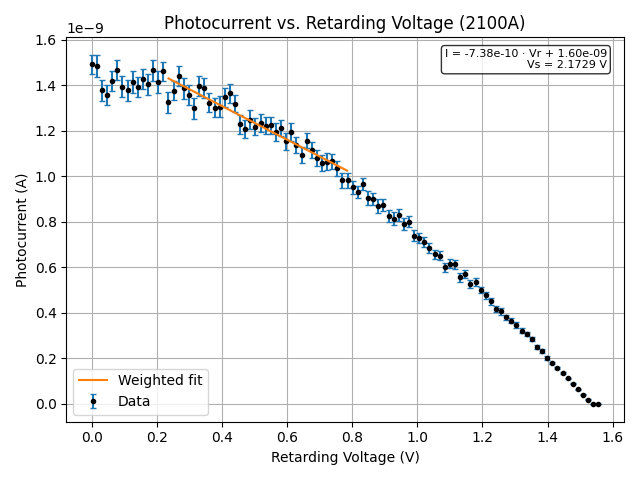
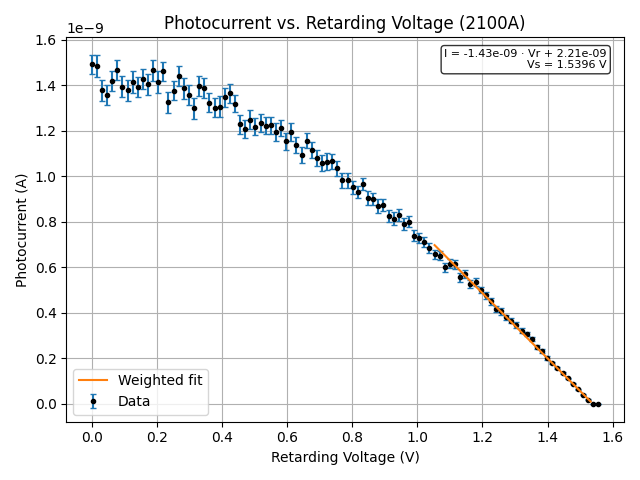
commit with most graphs done

diff --git a/Photoelectric Lab/analysis.py b/Photoelectric Lab/analysis.py
@@ -12,8 +12,8 @@ fit_ranges = {
     "1700A": (560, 955),
     "1800A": (520, 900),
     "1900A": (450, 850),
-    "2000A": (150, 500),
-    "2100A": (150, 500),
+    "2000A": (673, 977),
+    "2100A": (670, 976),
     "2200A": (615, 974),
     "2300A": (660, 964),
     "2400A": (486, 957),
